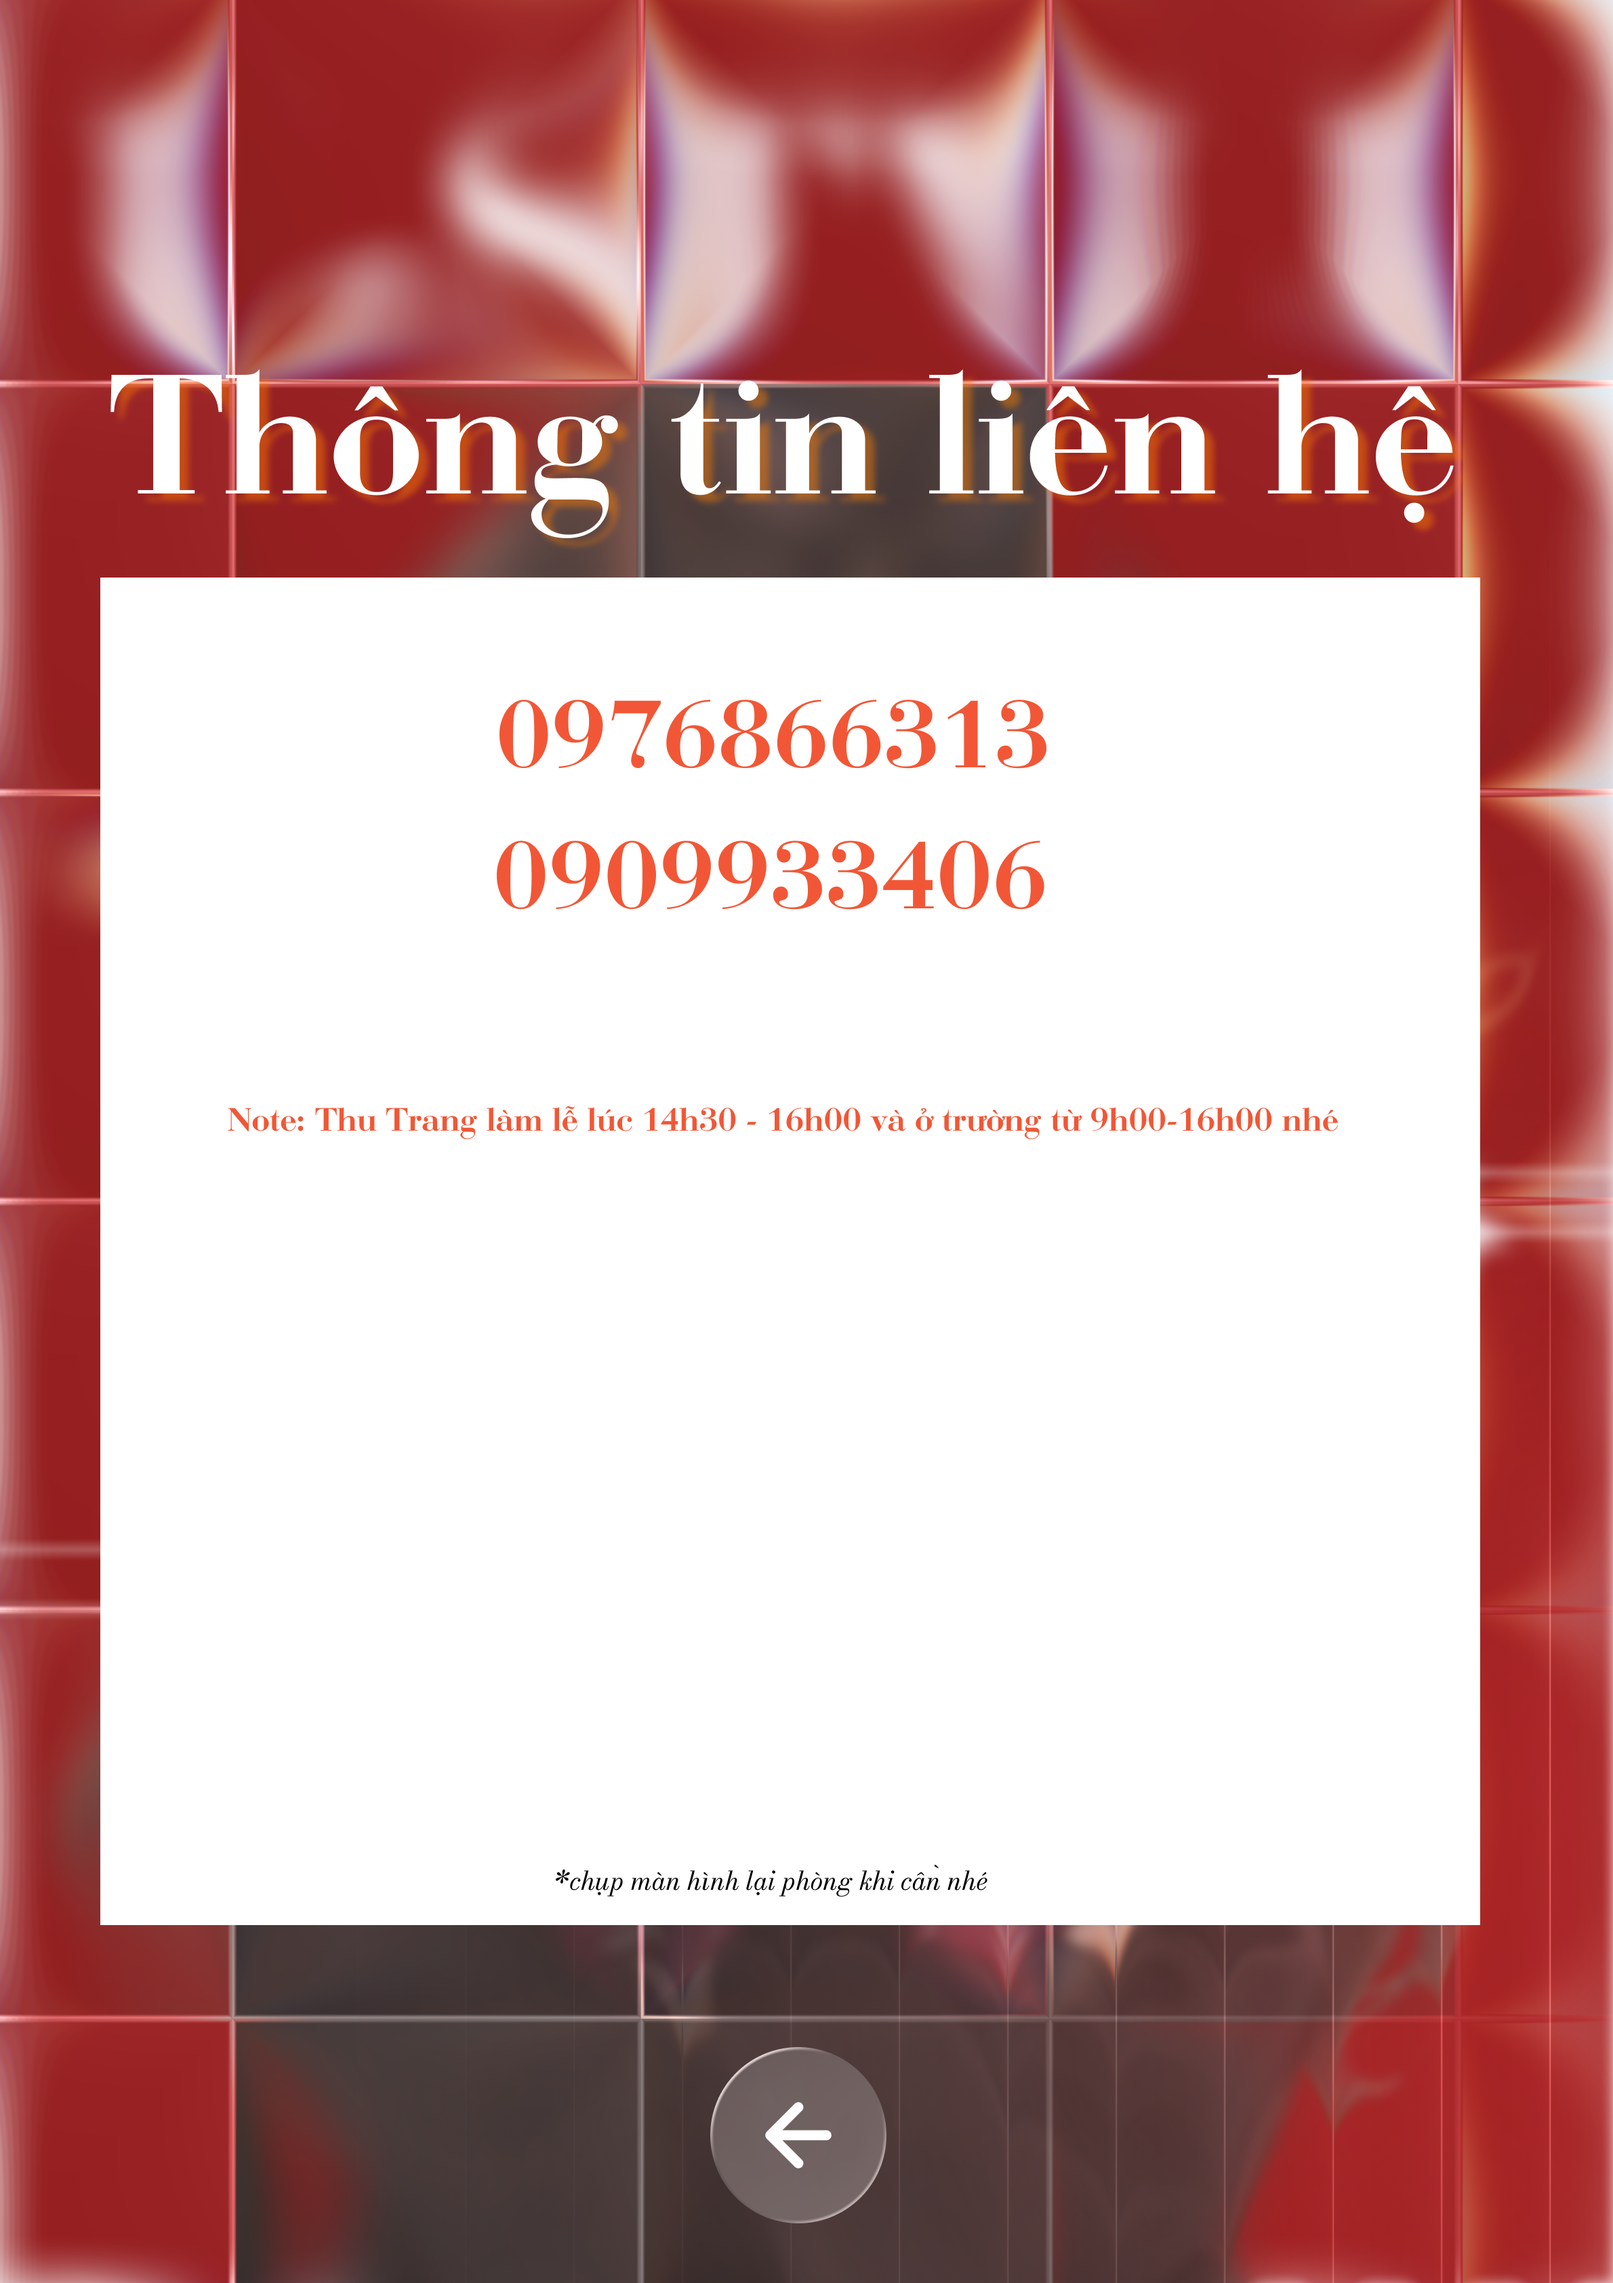
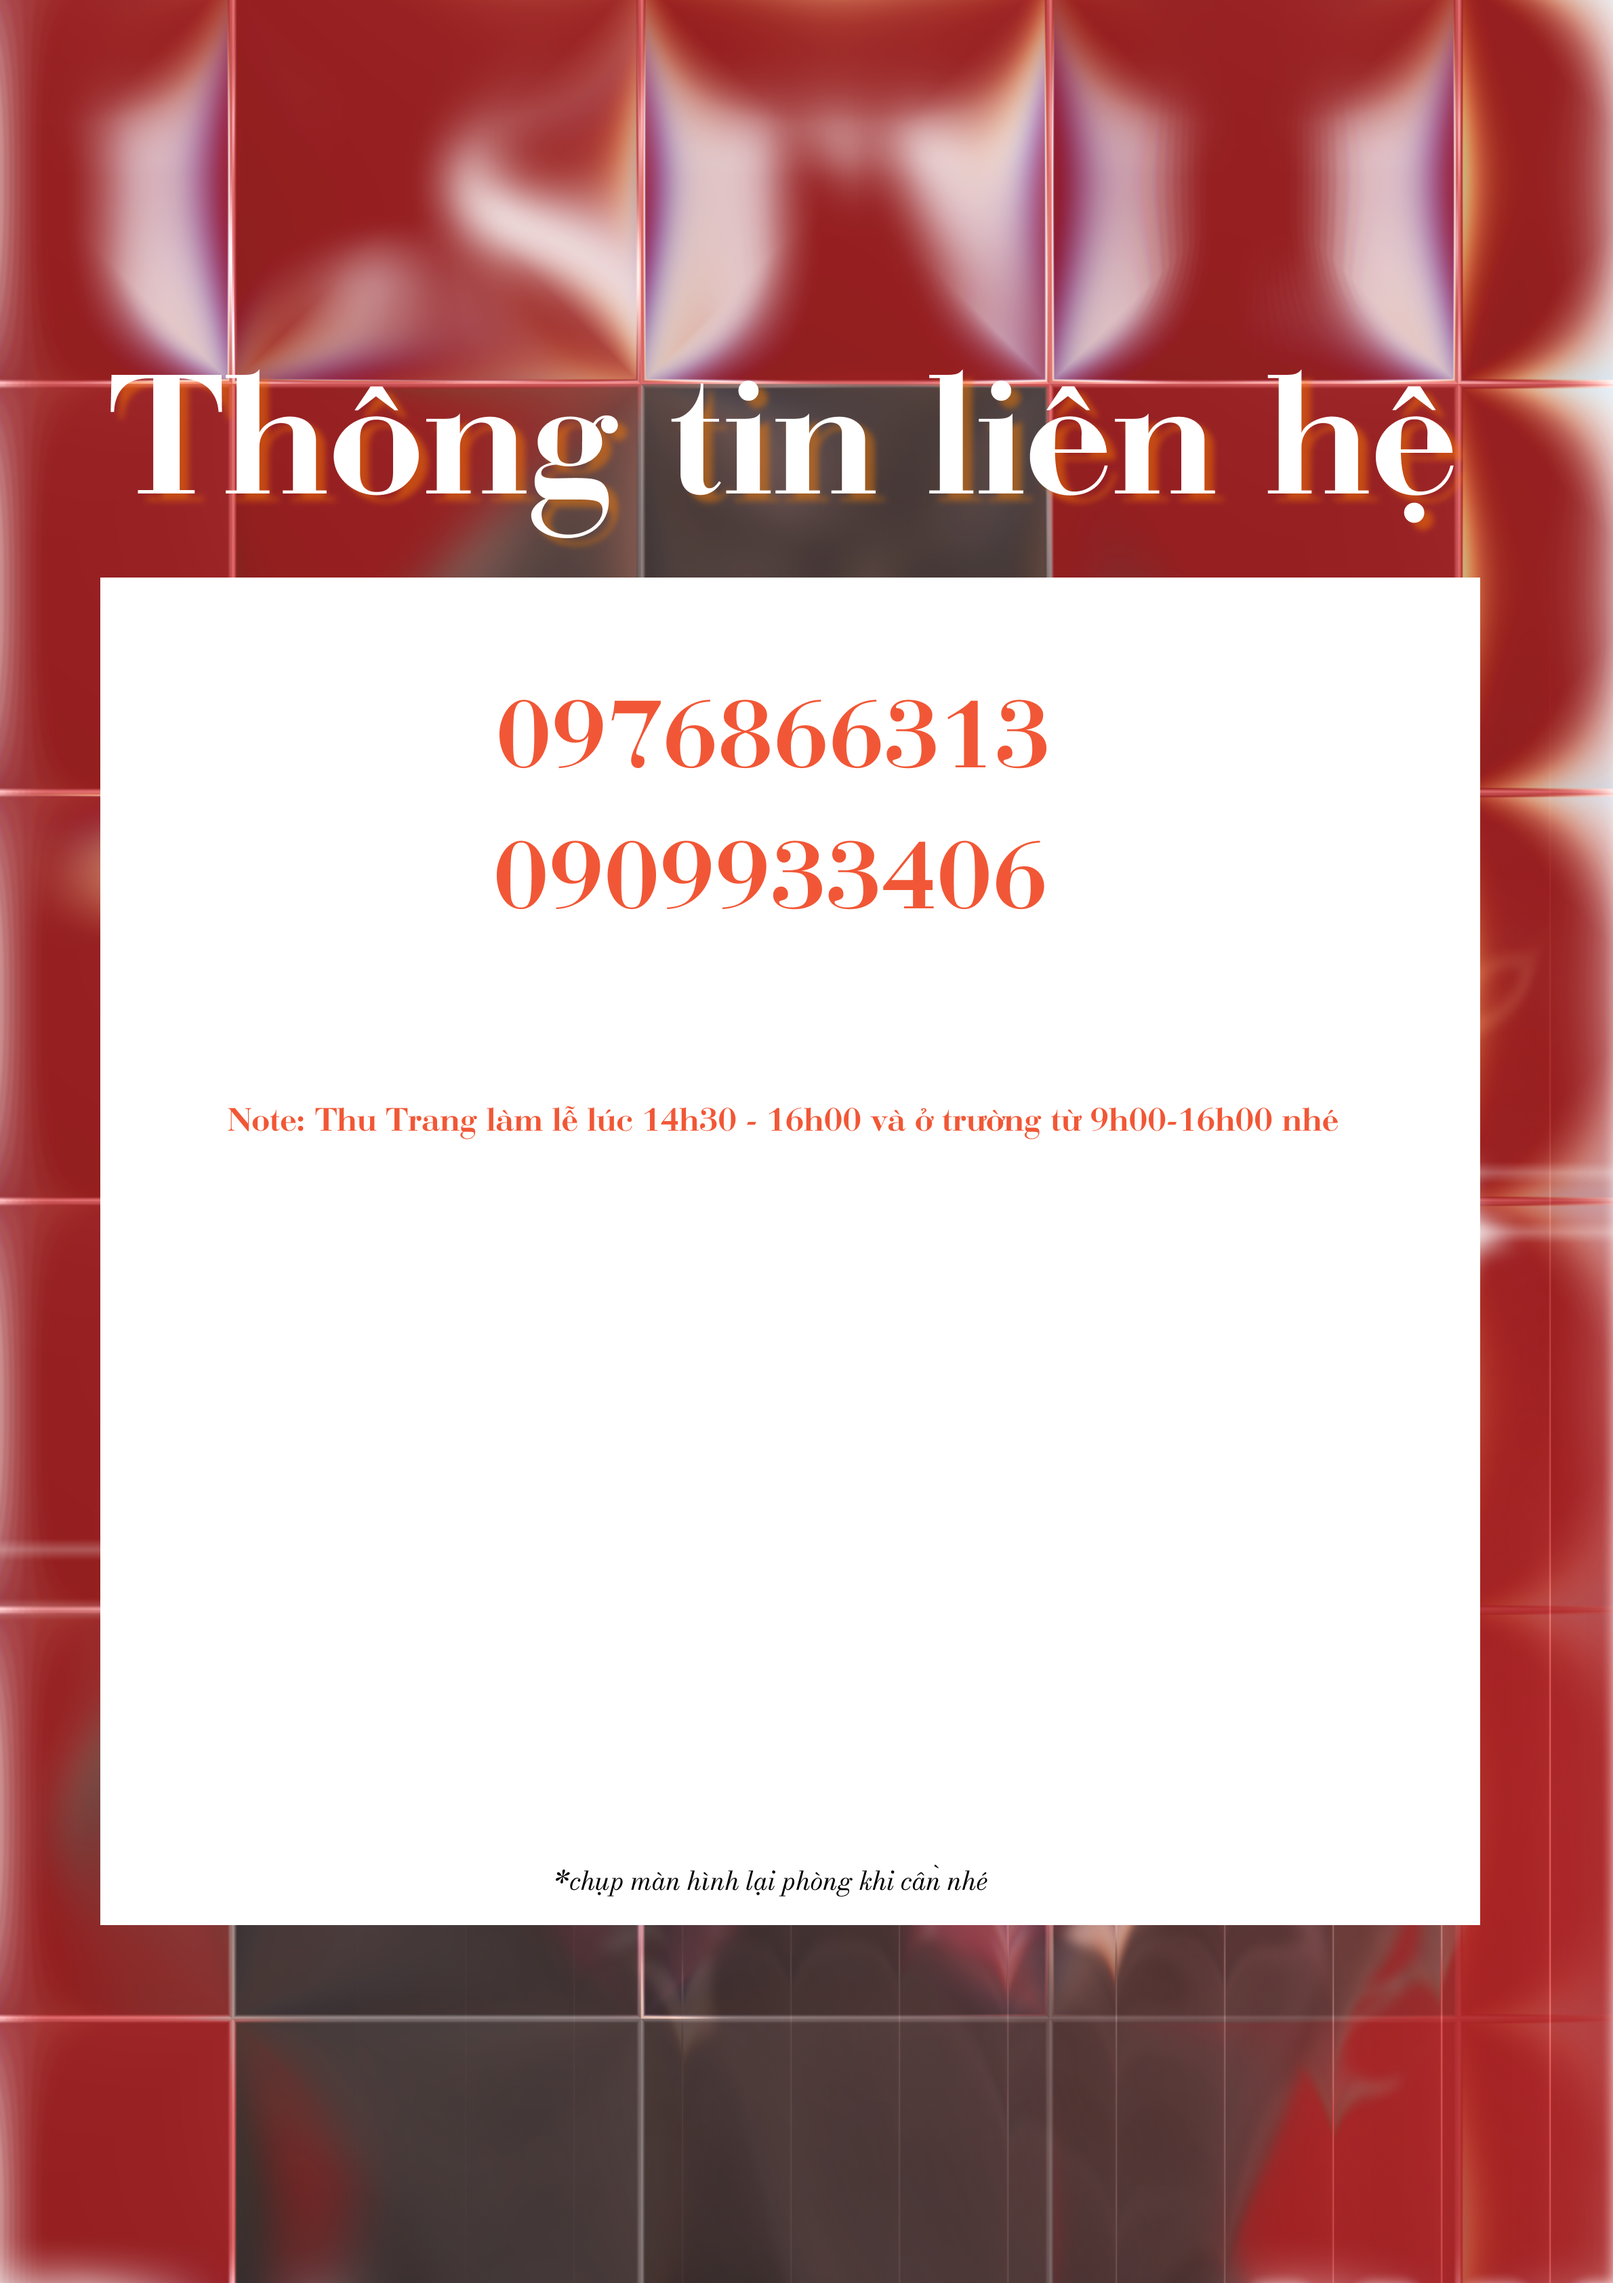
Refresh graduation screens and add responsive navigation

Changed region(s): [[0.4353, 0.8729, 0.5597, 0.9976]]

diff --git a/index.html b/index.html
@@ -12,18 +12,28 @@
       <div class="stage" id="stage" data-screen="0">
         <section class="screen screen-cover is-active" aria-label="Thiệp tốt nghiệp" aria-hidden="false">
           <img class="screen-art" src="assets/cover.png" alt="Thiệp mời lễ tốt nghiệp Thu Trang" />
-          <button class="hotspot cover-next" data-go="1" aria-label="Mở sơ đồ"></button>
+          <button class="nav-button cover-next" data-go="1" aria-label="Mở sơ đồ">
+            <svg viewBox="0 0 24 24" aria-hidden="true"><path d="M4.5 12h14m-6-6 6 6-6 6" /></svg>
+          </button>
         </section>
 
         <section class="screen screen-map" aria-label="Sơ đồ đường vào" aria-hidden="true">
           <img class="screen-art" src="assets/map.png" alt="Sơ đồ đường vào FPT University HCM, tầng G" />
-          <button class="hotspot map-prev" data-go="0" aria-label="Quay lại thiệp mời"></button>
-          <button class="hotspot map-next" data-go="2" aria-label="Xem thông tin liên hệ"></button>
+          <nav class="pager map-pager" aria-label="Điều hướng thiệp">
+            <button class="nav-button" data-go="0" aria-label="Quay lại thiệp mời">
+              <svg viewBox="0 0 24 24" aria-hidden="true"><path d="M19.5 12h-14m6 6-6-6 6-6" /></svg>
+            </button>
+            <button class="nav-button" data-go="2" aria-label="Xem thông tin liên hệ">
+              <svg viewBox="0 0 24 24" aria-hidden="true"><path d="M4.5 12h14m-6-6 6 6-6 6" /></svg>
+            </button>
+          </nav>
         </section>
 
         <section class="screen screen-contact" aria-label="Thông tin liên hệ" aria-hidden="true">
           <img class="screen-art" src="assets/contact.png" alt="Thông tin liên hệ và thời gian làm lễ của Thu Trang" />
-          <button class="hotspot contact-prev" data-go="1" aria-label="Quay lại sơ đồ"></button>
+          <button class="nav-button contact-prev" data-go="1" aria-label="Quay lại sơ đồ">
+            <svg viewBox="0 0 24 24" aria-hidden="true"><path d="M19.5 12h-14m6 6-6-6 6-6" /></svg>
+          </button>
         </section>
 
         <div class="screen-status" aria-live="polite" aria-atomic="true">Màn hình 1 trên 3</div>

diff --git a/styles.css b/styles.css
@@ -53,29 +53,32 @@ button, a { -webkit-tap-highlight-color: transparent; }
   -webkit-user-drag: none;
 }
 
-.hotspot {
+.nav-button {
   position: absolute;
   z-index: 2;
   display: block;
-  width: 10.92%;
+  width: clamp(44px, 11cqw, 70px);
   aspect-ratio: 1;
   padding: 0;
-  border: 1px solid transparent;
+  border: 1px solid rgba(255, 239, 218, .58);
   border-radius: 50%;
-  background: transparent;
+  background: linear-gradient(145deg, rgba(126, 109, 103, .88), rgba(54, 45, 46, .9));
+  color: #fff8ef;
   cursor: pointer;
+  box-shadow: inset 0 1px 1px rgba(255, 255, 255, .3), 0 3px 12px rgba(18, 7, 9, .32);
   touch-action: manipulation;
+  backdrop-filter: blur(5px);
 }
 
-.hotspot:active { background: #ffffff38; box-shadow: inset 0 0 0 2px #ffffff70; }
-.hotspot:focus-visible { outline: 2px solid #fff; outline-offset: 3px; background: #ffffff20; }
+.nav-button svg { display: block; width: 48%; height: 48%; margin: auto; fill: none; stroke: currentColor; stroke-width: 1.8; stroke-linecap: round; stroke-linejoin: round; }
+.nav-button:hover { background: linear-gradient(145deg, rgba(153, 129, 118, .96), rgba(75, 58, 54, .96)); }
+.nav-button:active { background: linear-gradient(145deg, #bd9e80, #73564d); box-shadow: inset 0 1px 5px rgba(36, 18, 14, .35); }
+.nav-button:focus-visible { outline: 2px solid #fff2dc; outline-offset: 3px; }
 
-/* Hit areas follow the button centers in the 595 × 842 exported artwork.
-   Percent positioning keeps them aligned as the portrait scales responsively. */
-.cover-next { left: 43%; bottom: 3.8%; }
-.map-prev { left: 37.84%; bottom: 1.8%; }
-.map-next { left: 51.43%; bottom: 1.8%; }
-.contact-prev { left: 43.94%; bottom: 1.8%; }
+.cover-next { left: 50%; bottom: 3.8%; transform: translateX(-50%); }
+.pager { position: absolute; z-index: 2; bottom: 1.8%; left: 50%; display: flex; gap: clamp(10px, 2.5cqw, 16px); transform: translateX(-50%); }
+.pager .nav-button { position: relative; }
+.contact-prev { left: 50%; bottom: 1.8%; transform: translateX(-50%); }
 
 .screen-status {
   position: absolute;
